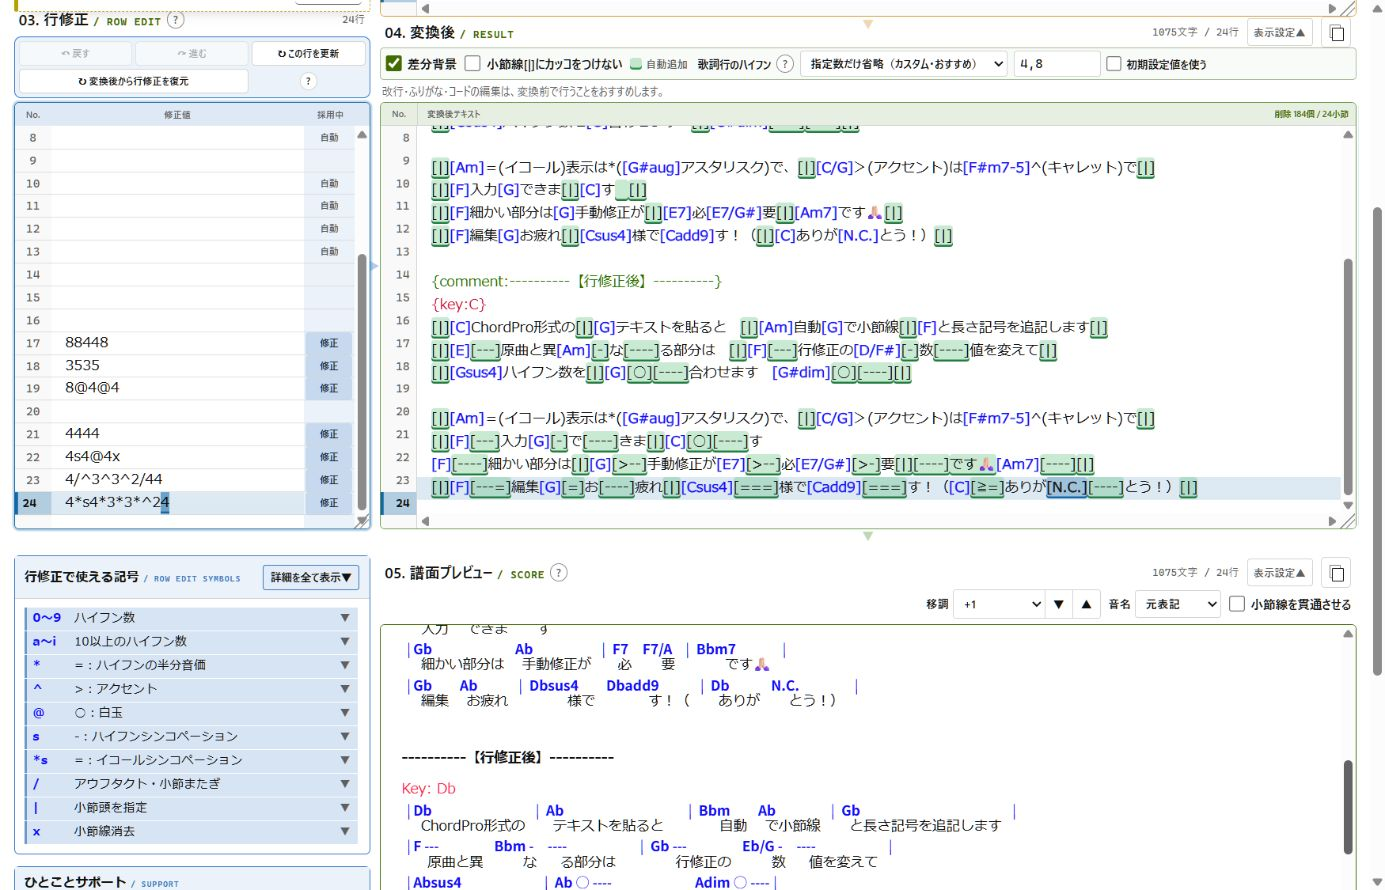
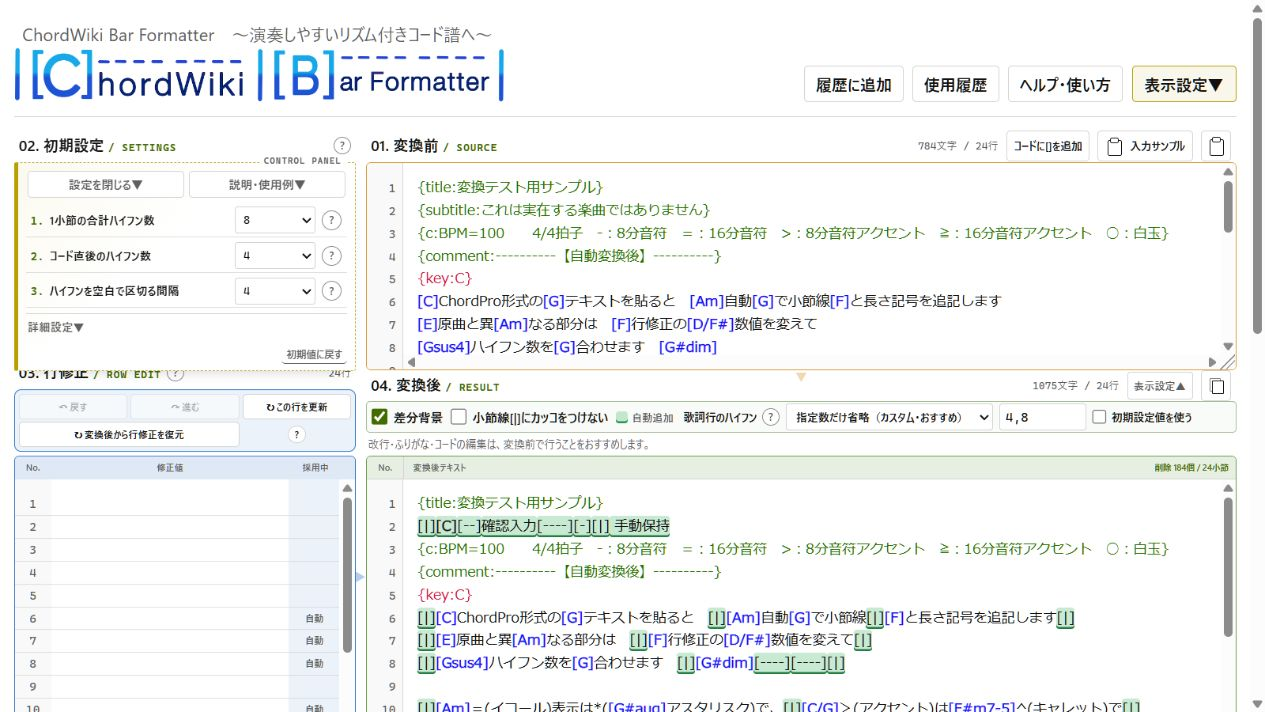
docs: align help text and add realtime editor guide

diff --git a/style.css b/style.css
@@ -581,6 +581,15 @@ textarea::placeholder { color: var(--muted); opacity: .7; }
 .layout-toggle-button { min-height: 32px; padding: 5px 10px; border: 1px solid var(--focus); border-radius: 4px; color: var(--text); background: color-mix(in srgb, var(--panel) 88%, var(--focus)); cursor: pointer; font-size: .72rem; font-weight: 800; }
 .layout-toggle-button:hover, .layout-toggle-button:focus-visible { background: color-mix(in srgb, var(--panel) 76%, var(--focus)); outline: 2px solid color-mix(in srgb, var(--focus) 35%, transparent); outline-offset: 1px; }
 .score-window-settings { position: relative; }
+.score-window-help { position: relative; }
+.score-window-help > summary { display: flex; min-height: 32px; padding: 5px 10px; align-items: center; border: 1px solid var(--line); border-radius: 4px; background: var(--panel); cursor: pointer; font-size: .72rem; font-weight: 800; list-style: none; }
+.score-window-help > summary::-webkit-details-marker { display: none; }
+.score-window-help > summary::after { content: "▼"; margin-left: 7px; color: var(--muted); font-size: .62rem; }
+.score-window-help[open] > summary::after { content: "▲"; }
+.score-window-help-panel { position: absolute; z-index: 21; top: calc(100% + 6px); right: 0; width: min(390px, calc(100vw - 20px)); padding: 12px 14px; border: 1px solid var(--line-strong); border-radius: 6px; background: var(--panel); box-shadow: 0 10px 28px rgb(0 0 0 / .22); color: var(--text); font-size: .76rem; line-height: 1.55; }
+.score-window-help-panel strong { display: block; margin-bottom: 5px; }
+.score-window-help-panel ol { margin: 0; padding-left: 1.35em; }
+.score-window-help-panel li + li { margin-top: 3px; }
 .score-window-settings > summary { display: flex; min-height: 32px; padding: 5px 10px; align-items: center; border: 1px solid var(--line); border-radius: 4px; background: var(--panel); cursor: pointer; font-size: .72rem; font-weight: 800; list-style: none; }
 .score-window-settings > summary::-webkit-details-marker { display: none; }
 .score-window-settings > summary::after { content: "▼"; margin-left: 7px; color: var(--muted); font-size: .62rem; }

diff --git a/committed-preview.html b/committed-preview.html
@@ -17,6 +17,19 @@
     <div class="score-window-controls">
       <label class="committed-transpose-control"><select id="committed-transpose" aria-label="リアルタイムプレビューの移調"></select><button id="committed-transpose-down" type="button" aria-label="プレビューを半音下げる">−</button><button id="committed-transpose-up" type="button" aria-label="プレビューを半音上げる">＋</button></label>
       <button id="committed-layout-toggle" class="layout-toggle-button" type="button" aria-pressed="true">左右比較へ</button>
+      <details class="score-window-help">
+        <summary>使い方</summary>
+        <div class="score-window-help-panel">
+          <strong>リアルタイム編集ページの使い方</strong>
+          <ol>
+            <li>左の「編集テキスト」を直接編集します。</li>
+            <li>入力した内容は右の「譜面プレビュー」へリアルタイムで反映されます。</li>
+            <li>右の譜面をクリックすると、対応する左の行を確認できます。</li>
+            <li>移調、文字サイズ、テーマ、上下／左右比較は表示だけを調整します。</li>
+            <li>編集内容はこのブラウザの下書きとして保存され、元の画面にも反映されます。</li>
+          </ol>
+        </div>
+      </details>
       <details class="score-window-settings">
         <summary>表示設定</summary>
         <div class="score-window-settings-panel">

diff --git a/tests/committed-preview-window.test.js b/tests/committed-preview-window.test.js
@@ -26,6 +26,11 @@ assert(html.includes('committed-window-layout committed-window-stacked'));
 assert(html.includes('href="index.html" aria-label="ChordWiki Bar Formatter トップページへ"'));
 assert(html.includes("リアルタイムエディター｜ChordWiki Bar Formatter"));
 assert(html.includes('<details class="score-window-settings">'));
+assert(html.includes('<details class="score-window-help">'));
+assert(html.includes('<strong>リアルタイム編集ページの使い方</strong>'));
+assert(html.includes('右の譜面をクリックすると、対応する左の行を確認できます。'));
+assert(html.includes('編集内容はこのブラウザの下書きとして保存され、元の画面にも反映されます。'));
+assert(css.includes('.score-window-help-panel { position: absolute;'));
 assert(css.includes(".score-window-settings-panel { position: absolute;"));
 assert(html.includes('id="committed-line-height"'));
 assert(html.includes('id="committed-transpose"'));

diff --git a/tests/github-publication.test.js b/tests/github-publication.test.js
@@ -20,5 +20,9 @@ assert(pagesWorkflow.includes("path: dist"));
 assert(!pagesWorkflow.includes("row-edit-test.html"));
 assert(readme.includes("![現在のヘルプ画面](help-usage-screenshot.png)"));
 assert(readme.includes("[Releases](https://github.com/mapida222/ChordWiki-Bar-Formatter/releases)"));
+assert(readme.includes("「01. 変換前」へChordPro形式のテキストを貼り付けます。"));
+assert(readme.includes("「03. 行修正」の数字や記号を調整します。"));
+assert(readme.includes("「05. 譜面プレビュー」で小節、コード、歌詞の見え方を確認します。"));
+assert(!readme.includes("「02. 変換前」") && !readme.includes("「04. 行修正」") && !readme.includes("「06. 譜面プレビュー」"));
 
 console.log("PASS: GitHub CI, curated Pages deployment, README help image and Releases link");
